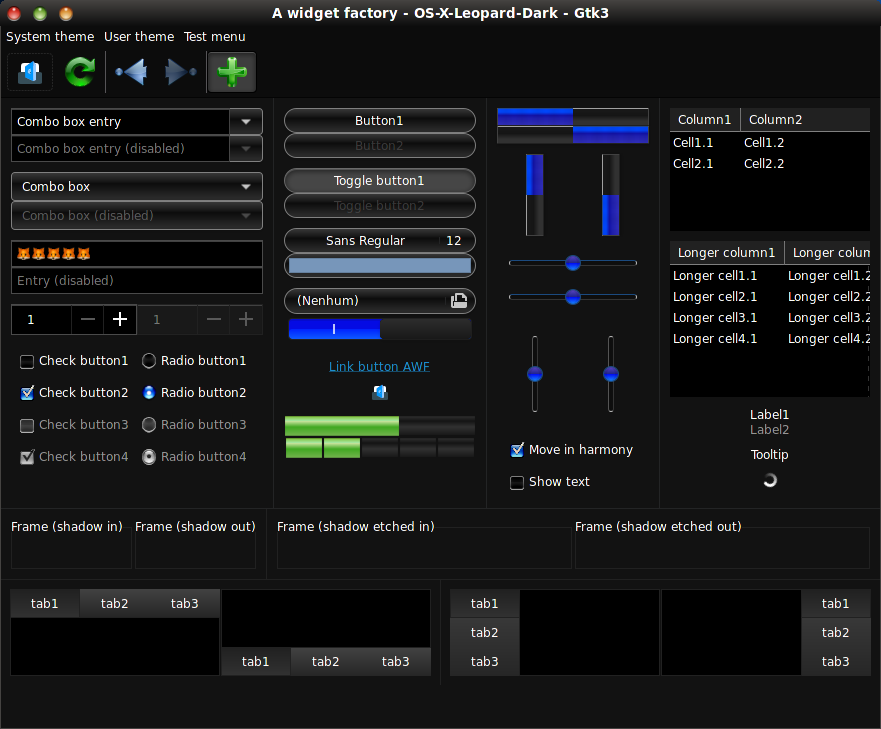
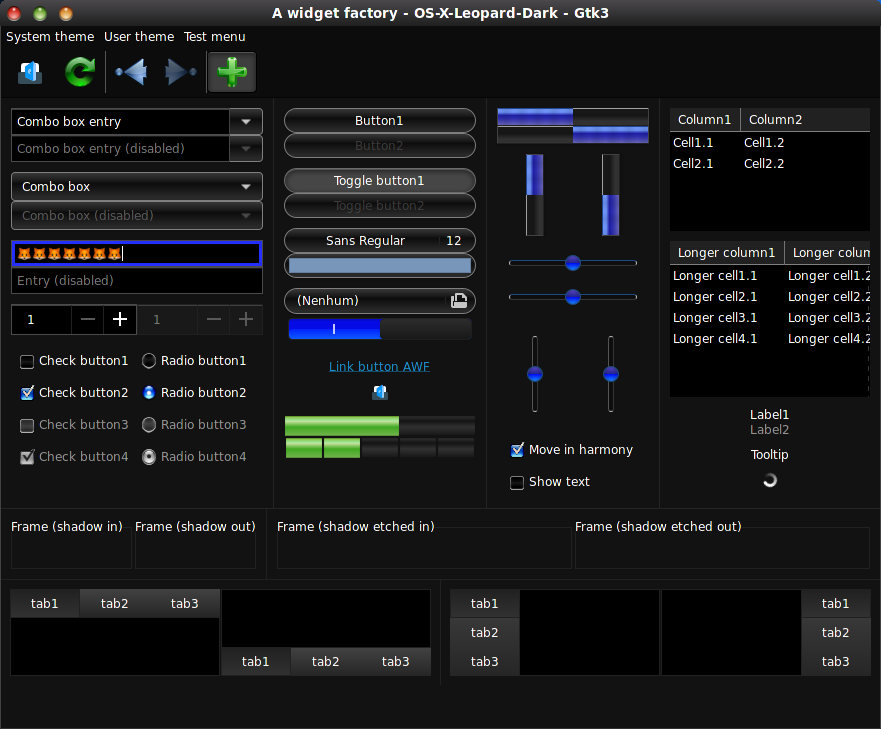
Changes on window decoration, scrollbars and progressbars

diff --git a/gtk-3.20/gtk.css b/gtk-3.20/gtk.css
@@ -1061,7 +1061,7 @@ progressbar {
     border-radius: 0;
     box-shadow: 0 -1px #21478f;
     background-color: #1b4a7f;
-    background-image: linear-gradient(to right, transparent, rgba(0, 0, 0, 0.05), transparent), linear-gradient(to top, #302eb9, #2020b0 40%, #1313a8 60%, #0046fa 80%);
+    background-image: linear-gradient(to right, transparent, rgba(0, 0, 0, 0.09), transparent), linear-gradient(to top, #6664b7, #2e2eaf 40%, #2020a8 60%, #6e94f7 80%);
     background-size: 16px 16px, auto; }
     progressbar progress:backdrop {
       background-color: #595959; }
@@ -1081,7 +1081,7 @@ progressbar {
   progressbar.vertical progress {
     box-shadow: -1px 0 #21478f;
     border-left-color: #21478f;
-    background-image: linear-gradient(to top, transparent, rgba(0, 0, 0, 0.05), transparent), linear-gradient(to left, #302eb9, #2020b0 40%, #1313a8 60%, #0046fa 80%); }
+    background-image: linear-gradient(to top, transparent, rgba(0, 0, 0, 0.09), transparent), linear-gradient(to left, #6664b7, #2e2eaf 40%, #2020a8 60%, #6e94f7 80%); }
     progressbar.vertical progress:backdrop {
       background-color: #595959; }
   progressbar.vertical trough {
@@ -1282,7 +1282,7 @@ scrollbar {
       border-color: transparent;
       border-radius: 16px;
       background-color: #444444;
-      background-image: linear-gradient(to right, transparent, rgba(0, 0, 0, 0.05), transparent), linear-gradient(to bottom, #0c6bff 15%, #1313a8 45%, #006cfa 75%);
+      background-image: linear-gradient(to right, transparent, rgba(0, 0, 0, 0.09), transparent), linear-gradient(to bottom, #1c75ff 15%, #1b1ba7 45%, #1477fa 75%);
       background-size: 16px 16px, auto;
       box-shadow: inset 1px 0 2px 0 rgba(0, 0, 0, 0.34), inset -1px 0 2px 0 rgba(0, 0, 0, 0.34); }
       scrollbar.horizontal slider:backdrop {
@@ -1314,7 +1314,7 @@ scrollbar {
       border-color: transparent;
       border-radius: 16px;
       background-color: #444444;
-      background-image: linear-gradient(to bottom, transparent, rgba(0, 0, 0, 0.05), transparent), linear-gradient(to right, #0c6bff 15%, #1313a8 45%, #006cfa 75%);
+      background-image: linear-gradient(to bottom, transparent, rgba(0, 0, 0, 0.09), transparent), linear-gradient(to right, #1c75ff 15%, #1b1ba7 45%, #1477fa 75%);
       background-size: 16px 16px, auto;
       box-shadow: inset 1px 0 2px 0 rgba(0, 0, 0, 0.34), inset -1px 0 2px 0 rgba(0, 0, 0, 0.34); }
       scrollbar.vertical slider:backdrop {
@@ -1602,7 +1602,7 @@ headerbar {
   min-height: 30px;
   color: #ffffff;
   background-color: #191919;
-  background-image: linear-gradient(to bottom, #4a484b, #191919);
+  background-image: linear-gradient(to bottom, #4a484b, #1f1f1f);
   border-bottom: 1px solid #060606; }
   headerbar:backdrop {
     color: #8C8C8C;
